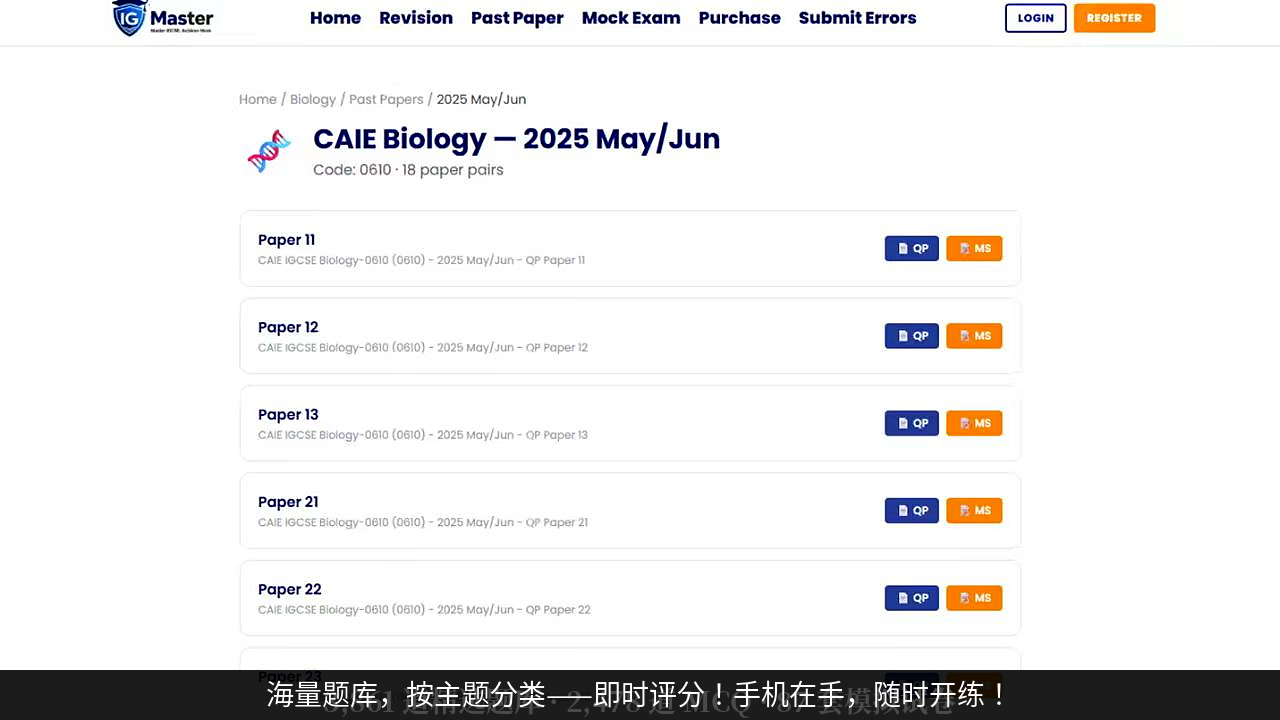
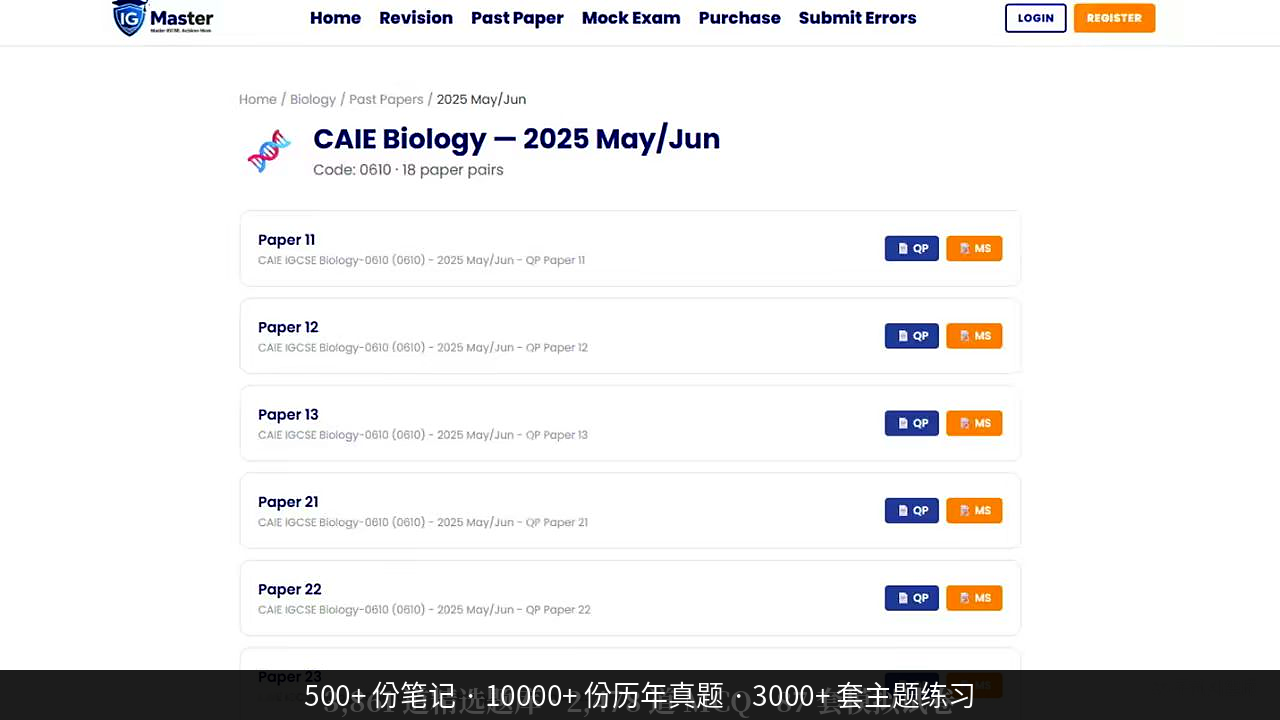
fix: CDN 0444815

Changed region(s): [[0.1875, 0.9472, 0.7812, 1.0]]

diff --git a/src/app/(marketing)/page.tsx b/src/app/(marketing)/page.tsx
@@ -69,7 +69,7 @@ export default function HomePage() {
               x5-video-orientation="portraint"
               preload="auto"
             >
-              <source src="https://cdn.jsdelivr.net/gh/chenchenzhang569-bit/igcse-revision@9d1bd17/public/promo-video.mp4" type="video/mp4" />
+              <source src="https://cdn.jsdelivr.net/gh/chenchenzhang569-bit/igcse-revision@0444815/public/promo-video.mp4" type="video/mp4" />
             </video>
           </div>
         </div>

diff --git a/build_video.py b/build_video.py
@@ -1,0 +1,75 @@
+from PIL import Image, ImageDraw, ImageFont
+import subprocess, os
+
+PUBLIC = "/home/ubuntu/igcse-site/public"
+FONT_PATH = "/usr/share/fonts/opentype/noto/NotoSansCJK-Regular.ttc"
+BAR_HEIGHT, W, H = 50, 1280, 720
+
+SEGMENTS = {
+    "papers": {
+        "frame": "frame_papers.png", "narration": "seg4_narration.wav",
+        "output_clip": "clip_papers.mp4",
+        "subtitle": "500+ 份笔记 · 10000+ 份历年真题 · 3000+ 套主题练习",
+    },
+    "questions": {
+        "frame": "frame_questions.png", "narration": "seg3_narration.wav",
+        "output_clip": "clip_questions.mp4",
+        "subtitle": "海量题库，按主题分类——即时评分！手机在手，随时开练！",
+    },
+}
+
+for seg_name, cfg in SEGMENTS.items():
+    img = Image.open(os.path.join(PUBLIC, cfg["frame"])).convert("RGBA")
+    overlay = Image.new("RGBA", img.size, (0, 0, 0, 0))
+    draw = ImageDraw.Draw(overlay)
+    bar_y = H - BAR_HEIGHT
+    draw.rectangle([(0, bar_y), (W, H)], fill=(0, 0, 0, 180))
+    for font_size in [28, 26, 24, 22, 20]:
+        font = ImageFont.truetype(FONT_PATH, font_size)
+        bbox = draw.textbbox((0, 0), cfg["subtitle"], font=font)
+        tw = bbox[2] - bbox[0]
+        if tw <= W - 40:
+            break
+    tx = (W - tw) // 2
+    ty = bar_y + (BAR_HEIGHT - (bbox[3] - bbox[1])) // 2 - bbox[1]
+    draw.text((tx, ty), cfg["subtitle"], font=font, fill=(255, 255, 255, 255))
+    result = Image.alpha_composite(img, overlay)
+    subtitled = os.path.join(PUBLIC, f"subtitled_{seg_name}.png")
+    result.convert("RGB").save(subtitled, "PNG")
+    audio = os.path.join(PUBLIC, cfg["narration"])
+    dur = float(subprocess.check_output([
+        "ffprobe", "-v", "error", "-show_entries", "format=duration",
+        "-of", "default=noprint_wrappers=1:nokey=1", audio
+    ]).decode().strip())
+    clip = os.path.join(PUBLIC, cfg["output_clip"])
+    subprocess.run([
+        "ffmpeg", "-y", "-loop", "1", "-i", subtitled, "-i", audio,
+        "-c:v", "libx264", "-tune", "stillimage",
+        "-c:a", "aac", "-b:a", "128k", "-pix_fmt", "yuv420p",
+        "-t", str(dur), "-shortest", clip
+    ], check=True)
+    size = os.path.getsize(clip)
+    print(f"{seg_name}: {dur:.1f}s, {size/1024:.0f}KB ✓")
+
+# Concatenate all 5 clips
+clips = ["clip_home.mp4", "clip_subjects.mp4", "clip_questions.mp4", "clip_papers.mp4", "clip_end.mp4"]
+concat_txt = os.path.join(PUBLIC, "concat.txt")
+with open(concat_txt, "w") as f:
+    for c in clips:
+        f.write(f"file '{os.path.join(PUBLIC, c)}'\n")
+
+output = os.path.join(PUBLIC, "promo-video.mp4")
+# Re-encode for audio compatibility (not just -c copy)
+subprocess.run([
+    "ffmpeg", "-y", "-f", "concat", "-safe", "0", "-i", concat_txt,
+    "-c:v", "libx264", "-c:a", "aac", "-b:a", "128k",
+    "-pix_fmt", "yuv420p", "-movflags", "+faststart",
+    output
+], check=True)
+
+dur = float(subprocess.check_output([
+    "ffprobe", "-v", "error", "-show_entries", "format=duration",
+    "-of", "default=noprint_wrappers=1:nokey=1", output
+]).decode().strip())
+print(f"\nFinal: {dur:.1f}s, {os.path.getsize(output)/1024:.0f}KB ✓")
+os.remove(concat_txt)
